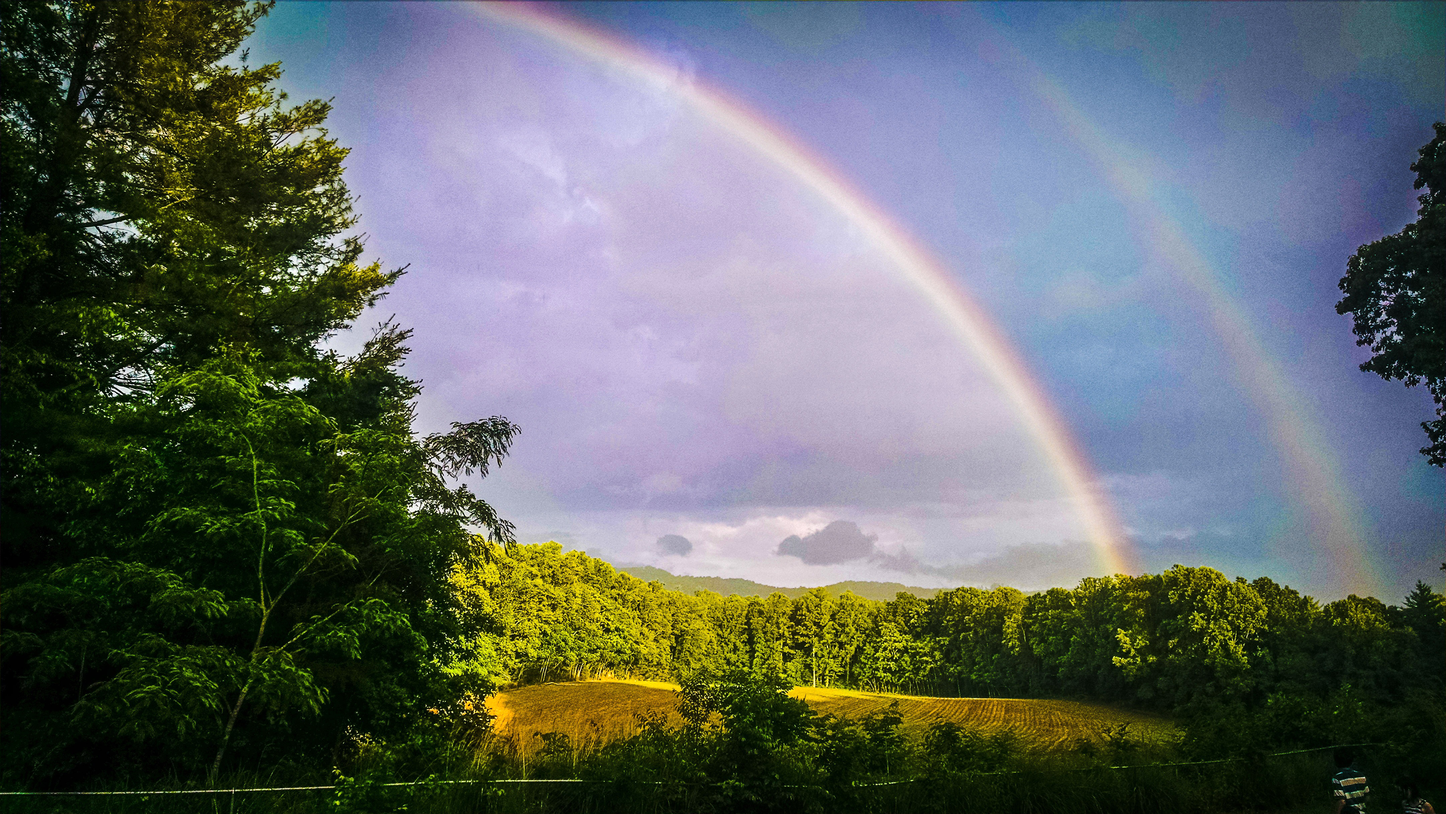
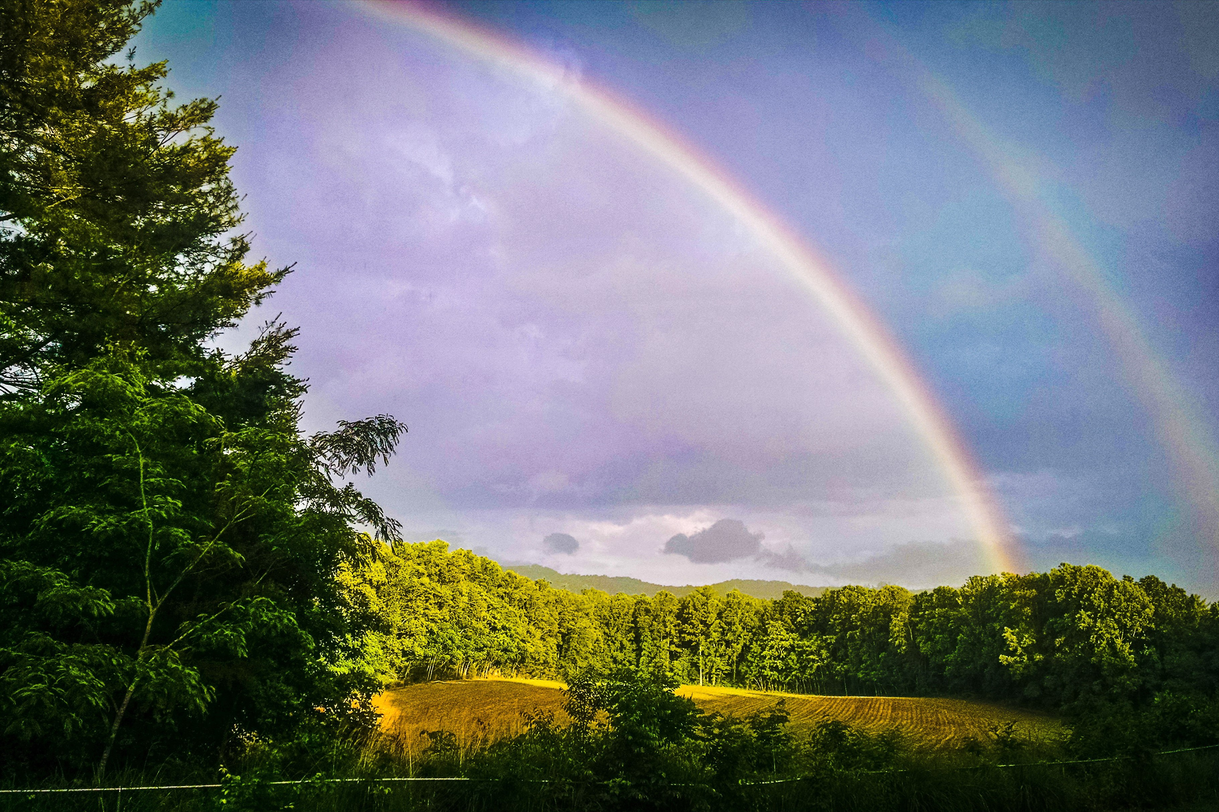
center images

diff --git a/lesson7/css/small.css b/lesson7/css/small.css
@@ -215,16 +215,16 @@ footer a {
 
 /*gallery main*/
 body.gallery {
-    display: flex;
     margin: auto;
-    align-content: space-around;
+    align-items: ;
 }
 
 .gallery {
     max-width: 1050px;
     display: flex;
     flex-wrap: wrap;
-    align-content: space- space-between;
+    align-content: center;
+    justify-content: center;
 }
 
 .gallery figure {
